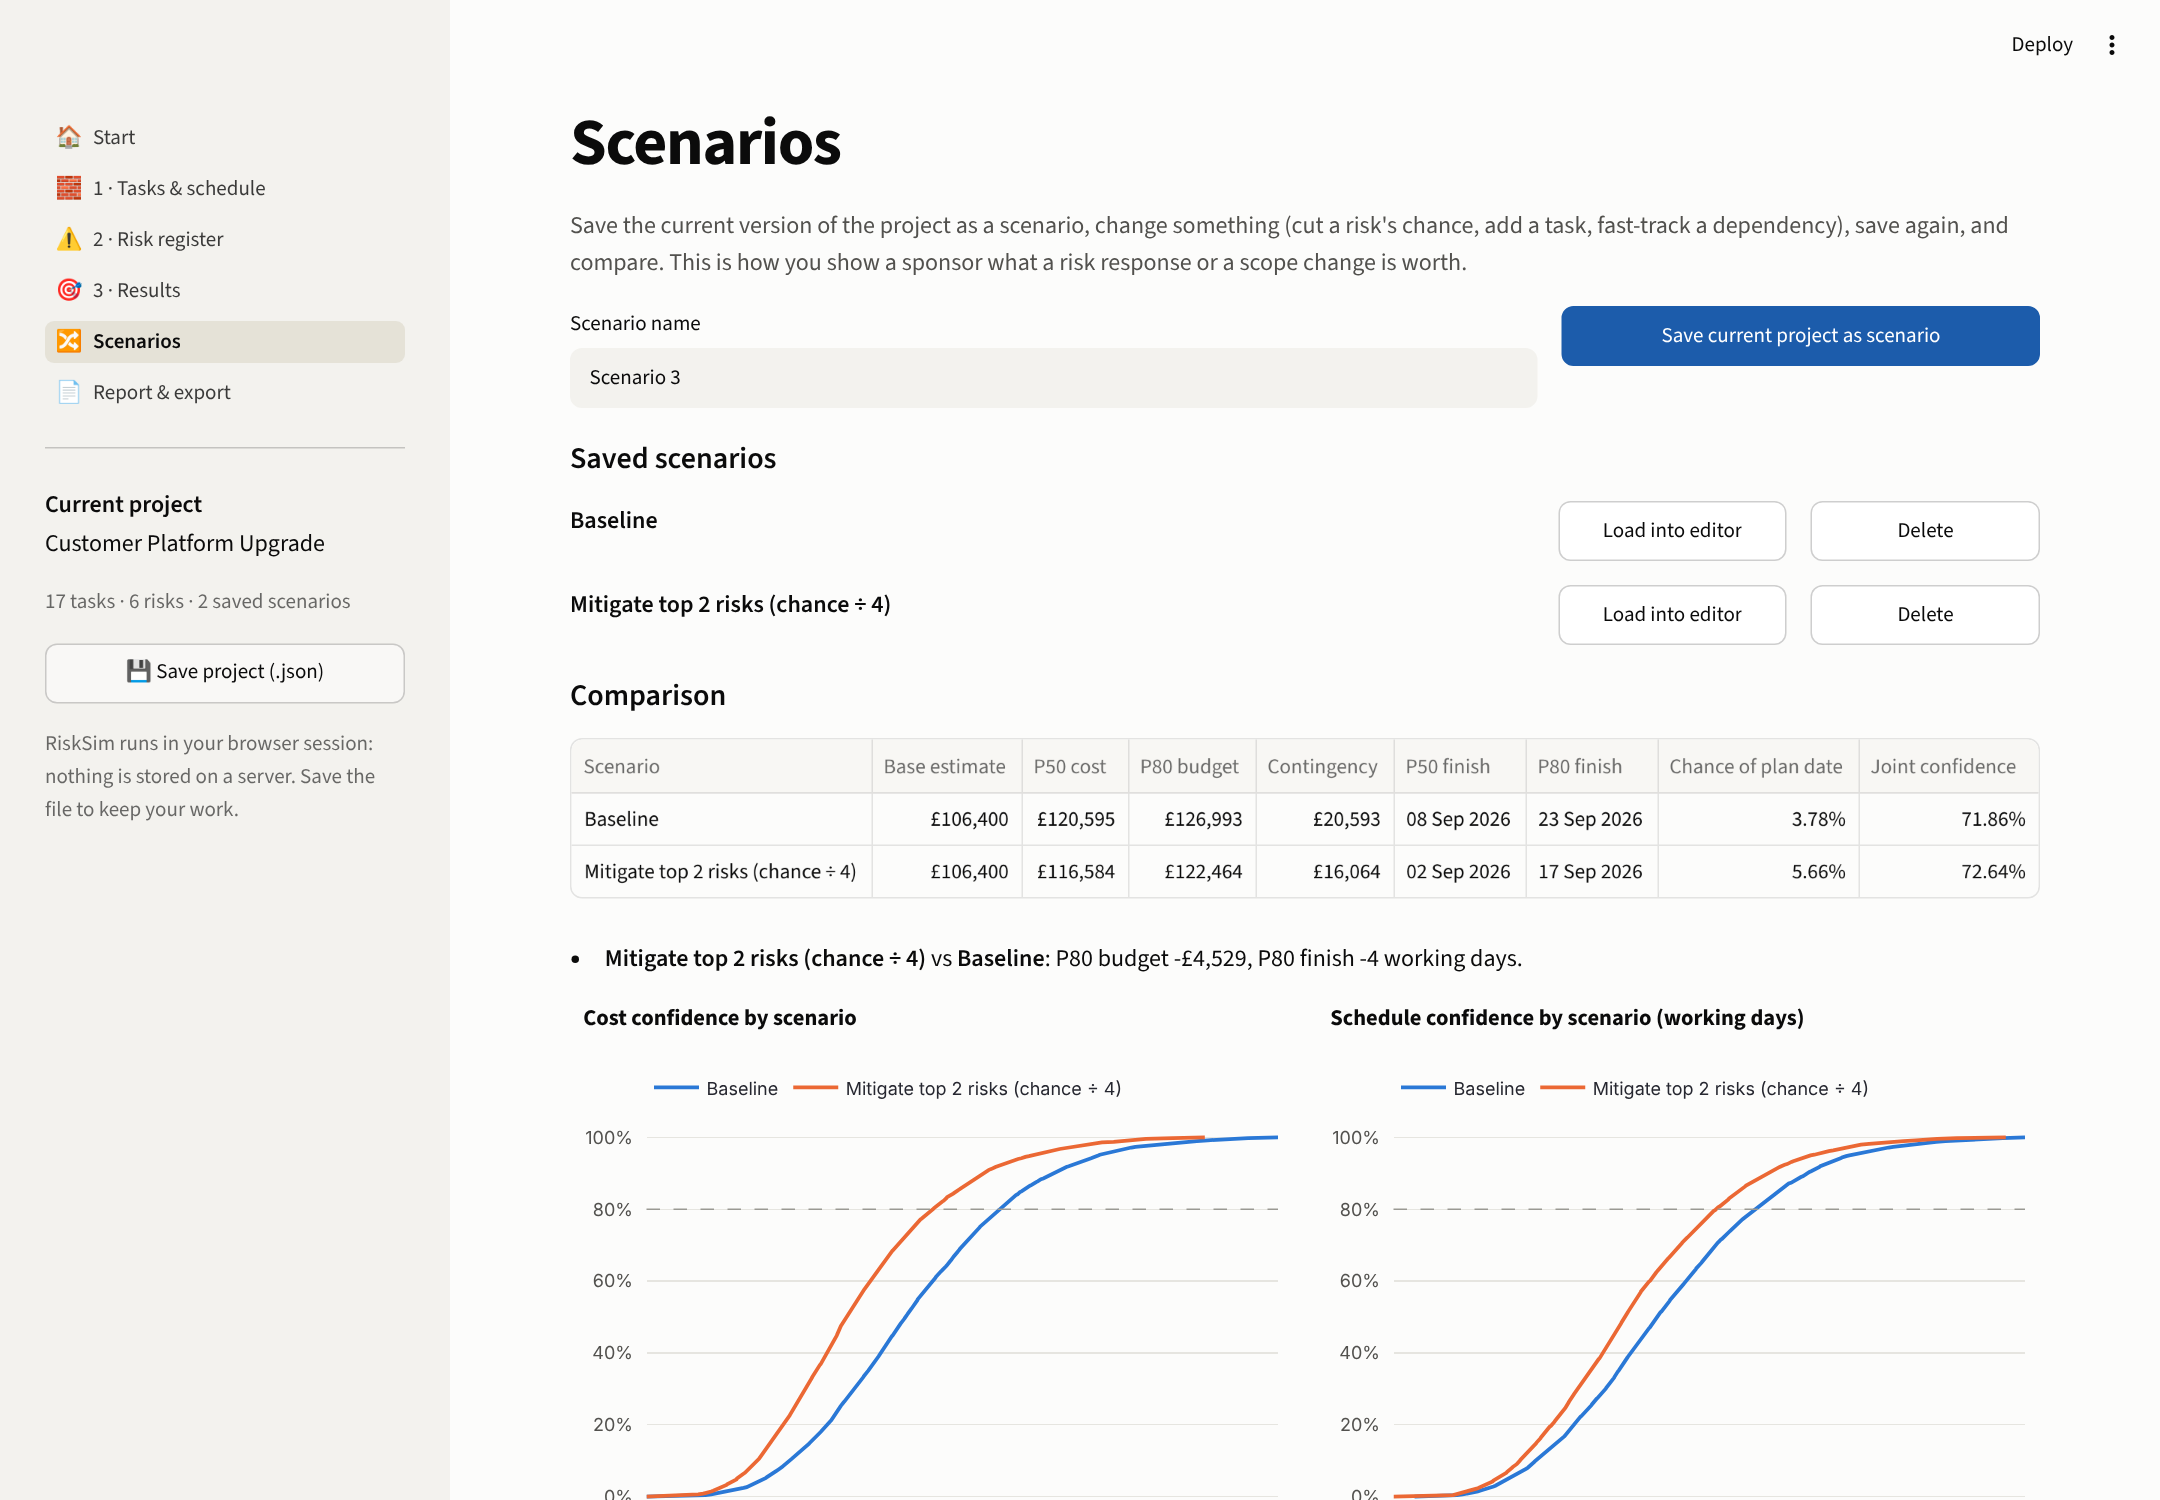
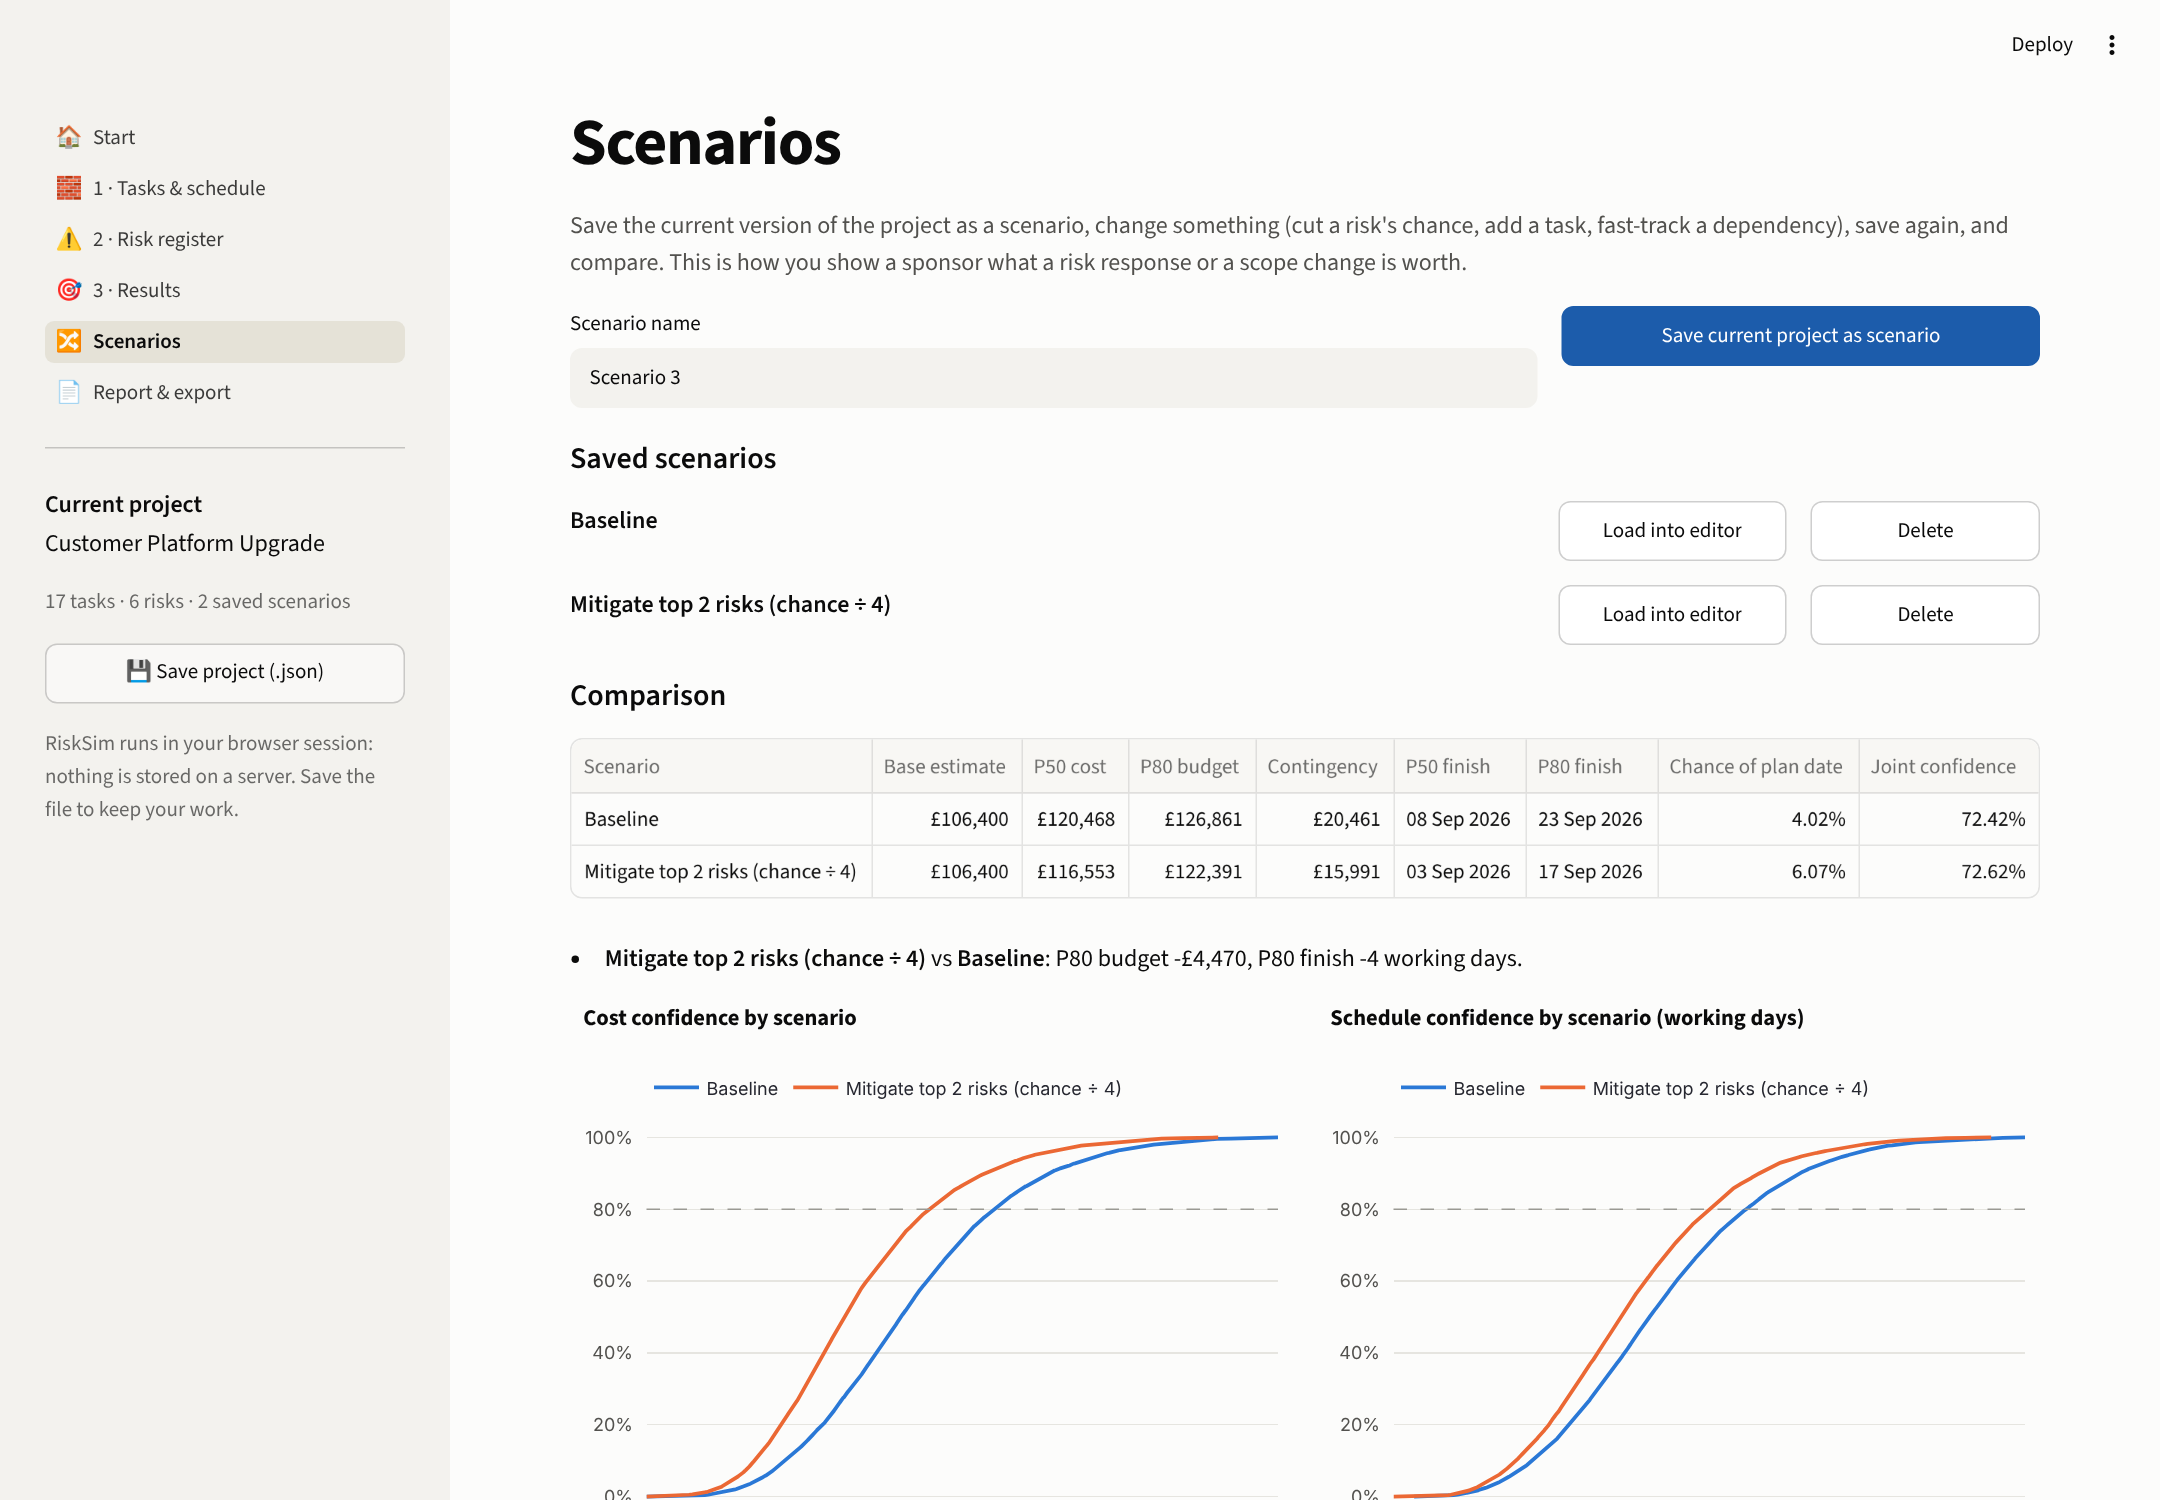
Scenarios use the project's full simulation count

diff --git a/risksim/engine.py b/risksim/engine.py
@@ -95,7 +95,7 @@ def drivers(a: Answer, top: int = 5) -> dict:
     return out
 
 
-def compare(scenarios: dict[str, Project], n_sims: int = 5000) -> pd.DataFrame:
+def compare(scenarios: dict[str, Project], n_sims: int | None = None) -> pd.DataFrame:
     rows = []
     for name, p in scenarios.items():
         a = analyse(p, n_sims)

diff --git a/README.md b/README.md
@@ -34,7 +34,7 @@ Most budgets and dates are single numbers: add up the estimates, put 10% on top,
 | A best guess plus low/high for cost and days, and what each task depends on. Import from Excel or type in the browser | What could happen, how likely, what it costs in money and days, which task it hits | A plain-English answer, then budget, timeline, joint confidence, risk ranking and contingency |
 
 Then:
-- **Scenarios** save versions of the project and compare them. "Mitigating the two biggest risks saves £4,529 at P80 and 4 working days."
+- **Scenarios** save versions of the project and compare them. "Mitigating the two biggest risks saves £4,470 at P80 and 4 working days."
 - **Report & export** produces a one-page Word board report, the full analysis in Excel, and a project file to reopen later.
 
 | | |
